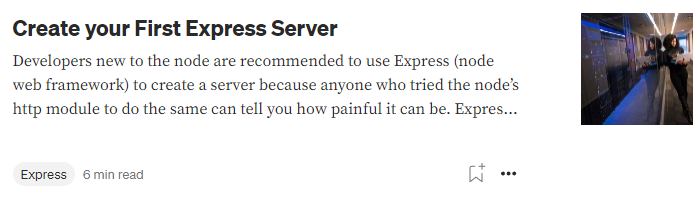
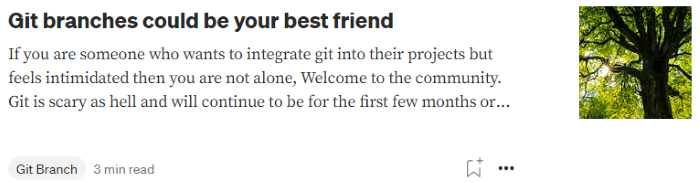
change about me and blogs

diff --git a/index.html b/index.html
@@ -32,7 +32,7 @@
             <section class='heading'>
                     <div>
                         <h1>Hi,<br />I'm Tanishka Talwar</h1>
-                        <p  class='title'>A Fullstack developer</p>
+                        <p  class='title'>A Web developer</p>
                         <p class='about'>Let us use my skills and your blessings(i.e. money) to create solutions that leave lasting effects on world.
                             If you find my work admiring and believe our work can be mutually benificial, please contact me.</p>
                     </div>
@@ -94,25 +94,57 @@
 
                     <div class='intro'>
                         <div class='name'>
-                            <p>I am a Fullstack developer</p>
+                            <p>I am a Web developer</p>
                             <h1>Tanishka <br/> Talwar</h1>
-                            <p><span class='bold'>Date of Birth</span> : 2nd October 2000</p>
                             <p><span class='bold'>Education</span> : Graduate</p>
-                            <p><span class='bold'>Interests</span> : Travelling</p>
-                            <p><span class='bold'>Languages Known</span> : Hindi, English</p>
+                            <p><span class='bold'>Interests</span> : Travelling, Learning</p>
+                            <p><span class='bold'>Languages</span> : Hindi, English, French(learning)</p>
+                            <p><span class='bold'>Status</span> : Available for work</p>
+
                         </div>
                         <img src='images/flower.jpg' alt='Flowers Image' />
                         <p class="attribute">Photo by <a href="https://unsplash.com/@hanchenxu?utm_source=unsplash&utm_medium=referral&utm_content=creditCopyText">Han Chenxu</a> on <a href="https://unsplash.com/images/nature/flower?utm_source=unsplash&utm_medium=referral&utm_content=creditCopyText">Unsplash</a>
                         </p>
                     </div>
 
-                    <p class='about'>
-                        If I am to define myself in two words that would be curious and grateful. That is how I percieve
-                        the world, with curiosity and gratefulness. That curiosity about computers had lead me to the love
-                        of my life 'coding'. Coding is something that sets me free. When I code it feels like I am in a
-                        whole new world of my own with the power of creating anything at my fingertips. I would love to
-                        have a chance to use my skills to create a difference in the world.
-                    </p>
+                    <div class='about'>
+                        <h3>Me</h3>
+                        <p>
+                            I am a web developer with 5+ years of coding experience and 0 years of commercial experience. I am
+                            proficient in both frontend and backend developement. Coding is my passion and I would love to make
+                            it my profession. I believe in making simple, beautiful and interactive websites whose purpose is
+                            easily understood by user instead of a highly complex website on which users feel lost.
+                        </p>
+                        
+                        <h3>My Journey</h3>
+                        <p>
+                            My first programming language was C++, as a subject in school for 2 years, that's when I realised I
+                            have a talent for coding. Then I went to college for graduation in BCA where I learned C and JAVA(core)
+                            along with other computer and software developement related concepts. In the last semester I enrolled
+                            in a web developement bootcamp (and I was surprised to find out that Java and Javascript are not related in any way) and that's when my heart said "Stop!, this is it". Then my quest to become
+                            a web developer started and in a stretch of about 1.5 years I buit some really great projects (Please,
+                            do check out my portfolio. Link on the projects section).
+                        </p>
+
+                        <h3>My Thoughts</h3>
+                        <p>
+                            To me, Web developement is more art than science, where sky is the limit. Each website out there has 
+                            potential to be better. As a developer, doesn't matter how good you are, you can always be better. The
+                            growth of a developer depends on his/her hunger, hunger to create an exceptional user experience, hunger
+                            to be recognised by their products, and hunger to change the world in some way through your solutions.
+                            And the most important skill for a developer is his/her ability to understand user's needs and limits
+                            and create solutions with that in mind.
+                        </p>
+
+                        <h3>Frontend developer vs Backend developer</h3>
+                        <p>
+                            The thing I love about Frontend developement is its beauty. You are as good as your imagination. I enjoy
+                            playing around with CSS a lot, there is so much you can do, based on your understanding. While the thing
+                            I love about backend is problem solving (always been a fan of puzzles) and databases (your data is never lost).
+                            Honestly, I don't have a favourite one. I just enjoy when people get amazed at what I can create.
+                        </p>
+                        
+                    </div>
 
                     <div class='contact'>
                         <div>
@@ -264,11 +296,11 @@
                             </p>
                             <p class='project-links'>
                                 <a href='https://github.com/Tanishka-2000/airbnb-clone' target='_blank'><i class='fa-brands fa-github'></i></a>
-                                <a href='https://tanishka-2000.github.io/airbnb-clone/' target='_blank'><i class='fa-solid fa-arrow-up-right-from-square'></i></a>
+                                <a href='https://tanishka-airbnb-clone' target='_blank'><i class='fa-solid fa-arrow-up-right-from-square'></i></a>
                             </p>
                         </div>                             
                     </div>
-
+                    <p class='intro'>Please head over to my <a href='https://tanishka-2000.github.io/portfolio_new/' target='_blank'>portfolio</a> to see more.</p>
                 </div>
 
                 <div id='blog'>
@@ -278,28 +310,29 @@
                     </div>
 
                     <p class='intro-line'>Best way to expand your knowledge is to share it with others. I want to help other developers
-                        with topic that I struggled with or have good understanding about.
+                        with topic that I struggled with or have good understanding about. Check out my <a href="https://medium.com/@tanishkatalwar18_68270">blog</a>
+                        to see more.
                     </p>
 
-                    <a href='https://medium.com/@tanishkatalwar18_68270/create-your-first-express-server-160d4d765f9d' target="_blank">
+                    <a href='https://medium.com/@tanishkatalwar18_68270/git-branches-could-be-your-best-friend-4ed2de3ecb7a' target='_blank'>
                         <img src='./images/blog1.png'/>
                     </a>
 
-                    <a href='https://medium.com/@tanishkatalwar18_68270/know-these-commands-to-start-your-git-journey-3ff2d7e5b32b'>
+                    <a href='https://medium.com/@tanishkatalwar18_68270/is-clean-code-worth-the-effort-fee5c5dead7b' target='_blank'>
                         <img src='./images/blog2.png'/>
                     </a>
 
-                    <a href='https://medium.com/@tanishkatalwar18_68270/getting-started-with-git-in-no-time-d45ca03b2090'>
+                    <a href='https://medium.com/@tanishkatalwar18_68270/getting-started-with-git-in-no-time-d45ca03b2090' target='_blank'>
                         <img src='./images/blog3.png'/>
                     </a>
 
-                    <a href='https://medium.com/@tanishkatalwar18_68270/10-js-array-methods-to-be-more-productive-85247ce286ef'>
+                    <a href='https://medium.com/@tanishkatalwar18_68270/10-js-array-methods-to-be-more-productive-85247ce286ef' target='_blank'>
                         <img src='./images/blog4.png'/>
                     </a>
                 </div>
 
             </section>
-            <div class='contact     mobile-contact'>
+            <div class='contact mobile-contact'>
                 <div>
                     <h2>Where to find me ?</h2>
                     <p><i class="fa-solid fa-location-dot"></i> Saharanpur, Uttar Pradesh</p>
@@ -311,7 +344,3 @@
         <script src='script.js' defer charset='utf-8'></script>
     </body>
 </html>
-<!-- games = where's waldo, rock paper dcissors, maemory card, battleship, tic-tac-toe -->
-<!-- react = cv application, memory-card, shopping cart airbnb-clone -->
-<!-- webpack = restautant page, todo-list -->
-<!-- miscellaneous = weather app, admin-dashboard, etch-a-sketch, calculator, library, sign-up-form -->

diff --git a/styles.css b/styles.css
@@ -593,13 +593,17 @@ section.heading .social a{
     color: #999;
 }
 
-#about p.about{
+#about .about{
     width: 90%;
     color: #333;
     margin: 100px auto;
     font-size: 1.3rem;
-    letter-spacing: 1.2px;
-    line-height: 1.3;
+    /* letter-spacing: 1.2px;
+    line-height: 1.3; */
+}
+
+#about .about h3{
+    margin: 30px 0 10px;
 }
 
 .contact{
@@ -659,7 +663,7 @@ section.heading .social a{
         color: #666;
     }
 
-    #about p.about{
+    #about .about{
         width: 97%;
         color: #999;
         margin: 50px auto;
@@ -704,9 +708,11 @@ section.heading .social a{
     margin: 30px auto;
 }
 
+
 #projects p.intro a{
     font-weight: 700;
     color: #000;
+    font-size: 1.3rem;
 }
 
 #projects .project{
@@ -930,4 +936,10 @@ section.heading .social a{
     #blog a img{
         width: 90%;
     }
+}
+#blog .intro-line a{
+    display: inline;
+    color: #000;
+    font-weight: 700;
+    text-decoration: underline;
 }

diff --git a/script.js b/script.js
@@ -12,6 +12,7 @@ function showDiv(curr){
     prev = curr;
 }
 
+// add increasing delay on skills
 for(let i = 0; i < skilldivs.length; i = i+2){
     skilldivs[i].style.transitionDelay = `${200 + i * 50}ms`;
     skilldivs[i+1].style.transitionDelay = `${200 + i * 50}ms`;
